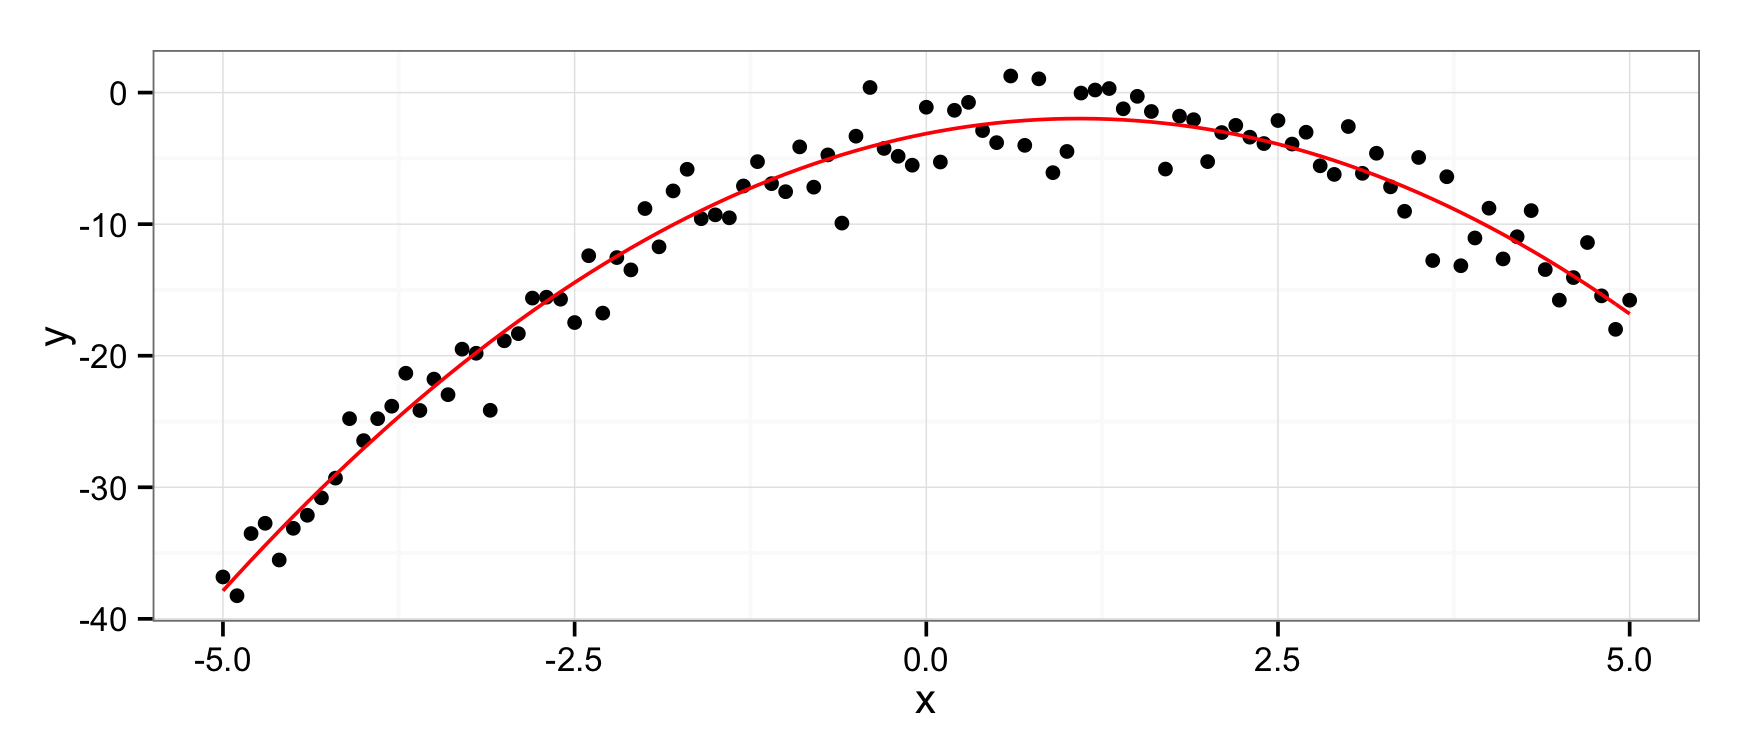
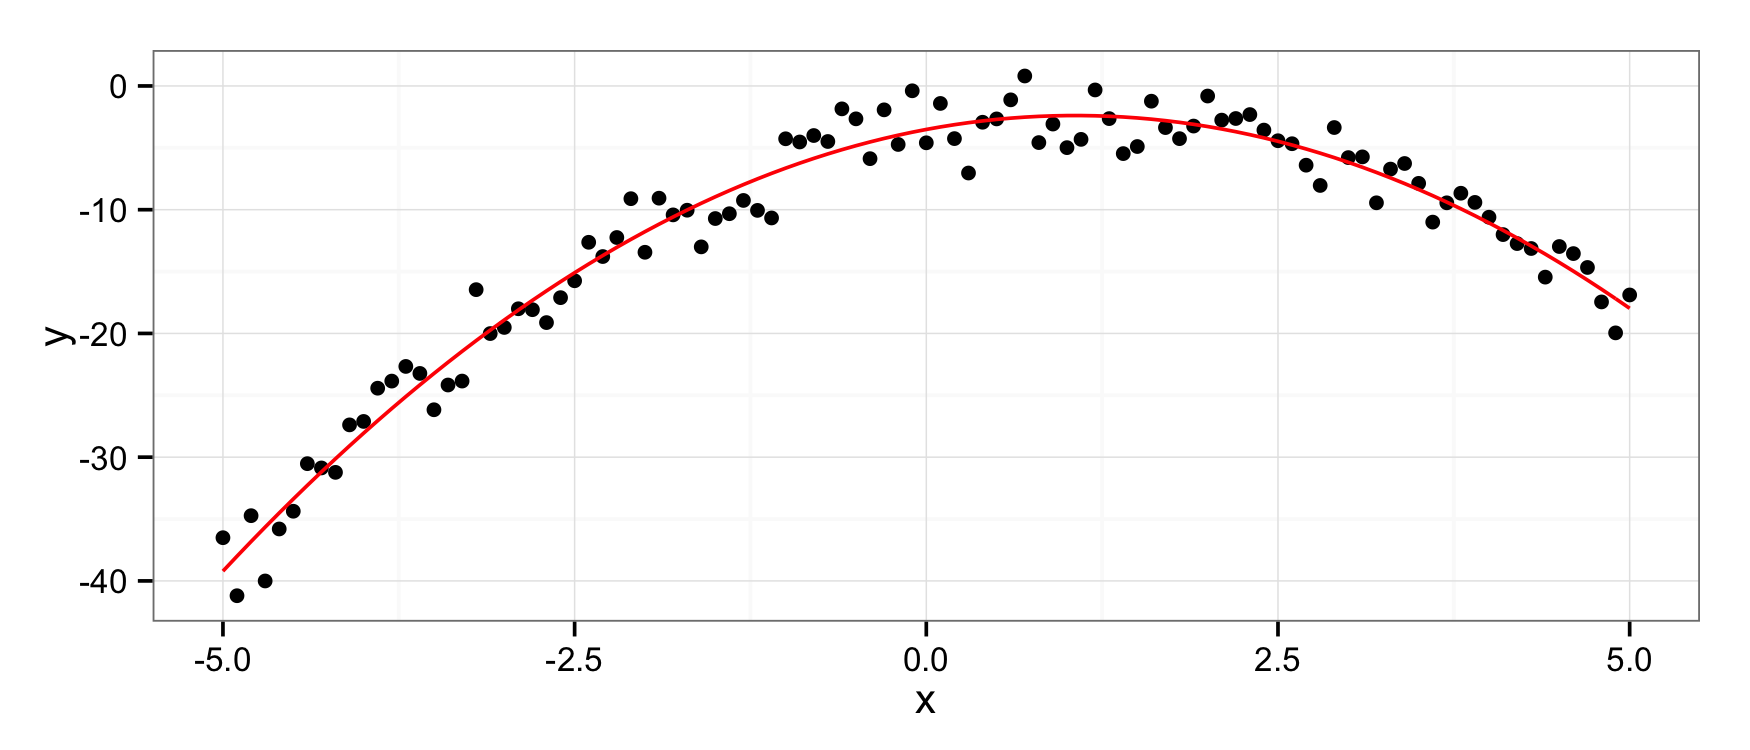
readme: jacobi picture fix

diff --git a/README.md b/README.md
@@ -181,7 +181,7 @@ df <- t(sapply(s, as.function(chebPolys)) )
 df <- as.data.frame(cbind(s, df))
 names(df) <- c("x", paste0("T_", 0:N))
 mdf <- melt(df, id = "x")
-qplot(x, value, data = mdf, geom = "line", color = variable)
+qplot(x, value, data = mdf, geom = "path", color = variable)
 ```
 
 ![](README-unnamed-chunk-11-1.png)
@@ -203,7 +203,7 @@ df <- t(sapply(s, as.function(jacPolys)) )
 df <- as.data.frame(cbind(s, df))
 names(df) <- c("x", paste0("P_", 0:N))
 mdf <- melt(df, id = "x")
-qplot(x, value, data = subset(mdf, abs(value) <= 30), geom = "line", color = variable)
+qplot(x, value, data = subset(mdf, abs(value) <= 25), geom = "path", color = variable)
 ```
 
 ![](README-unnamed-chunk-12-1.png)
@@ -233,7 +233,7 @@ df <- t(sapply(s, as.function(bernPolys)) )
 df <- as.data.frame(cbind(s, df))
 names(df) <- c("x", paste0("B_", 0:N))
 mdf <- melt(df, id = "x")
-qplot(x, value, data = mdf, geom = "line", color = variable)
+qplot(x, value, data = mdf, geom = "path", color = variable)
 ```
 
 ![](README-unnamed-chunk-13-1.png)
@@ -252,7 +252,7 @@ df <- data.frame(
   which = rep(c("actual", "approx"), each = 101)
 )
 #> f(x)
-qplot(x, y, data = df, geom = "line", color = which)
+qplot(x, y, data = df, geom = "path", color = which)
 ```
 
 ![](README-unnamed-chunk-14-1.png)
@@ -294,7 +294,7 @@ df$y <- with(df, -x^2 + 2*x - 3 + rnorm(n, 0, 2))
 
 mod <- lm(y ~ x + I(x^2), data = df)
 (p <- round(as.mpoly(mod)))
-#> 2.105 x  -  0.969 x^2  -  3.118
+#> 2.124 x  -  1.003 x^2  -  3.515
 qplot(x, y, data = df) +
   stat_function(fun = as.function(p), colour = 'red')
 #> f(x)
